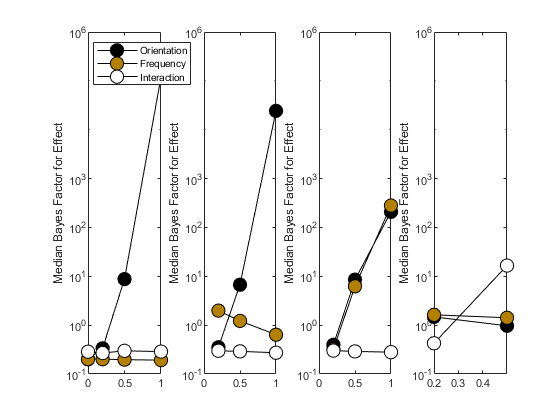
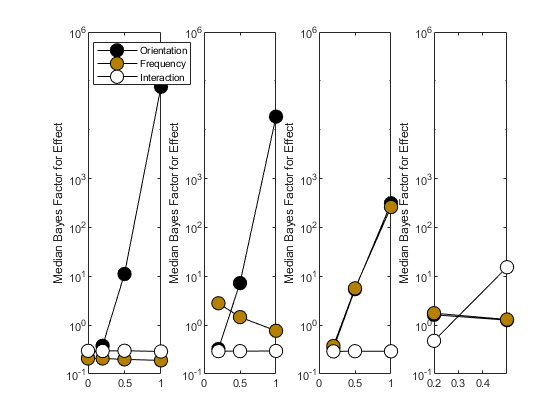
Updated documentation/getting started

diff --git a/docs/index.html b/docs/index.html
@@ -6,7 +6,7 @@
    <!--
 This HTML was auto-generated from MATLAB code.
 To make changes, update the MATLAB code and republish this document.
-      --><title>Getting Started with the bayesFactor Toolbox</title><meta name="generator" content="MATLAB 9.5"><link rel="schema.DC" href="http://purl.org/dc/elements/1.1/"><meta name="DC.date" content="2019-01-27"><meta name="DC.source" content="index.m"><style type="text/css">
+      --><title>Getting Started with the bayesFactor Toolbox</title><meta name="generator" content="MATLAB 9.5"><link rel="schema.DC" href="http://purl.org/dc/elements/1.1/"><meta name="DC.date" content="2019-01-28"><meta name="DC.source" content="index.m"><style type="text/css">
 html,body,div,span,applet,object,iframe,h1,h2,h3,h4,h5,h6,p,blockquote,pre,a,abbr,acronym,address,big,cite,code,del,dfn,em,font,img,ins,kbd,q,s,samp,small,strike,strong,sub,sup,tt,var,b,u,i,center,dl,dt,dd,ol,ul,li,fieldset,form,label,legend,table,caption,tbody,tfoot,thead,tr,th,td{margin:0;padding:0;border:0;outline:0;font-size:100%;vertical-align:baseline;background:transparent}body{line-height:1}ol,ul{list-style:none}blockquote,q{quotes:none}blockquote:before,blockquote:after,q:before,q:after{content:'';content:none}:focus{outine:0}ins{text-decoration:none}del{text-decoration:line-through}table{border-collapse:collapse;border-spacing:0}
 
 html { min-height:100%; margin-bottom:1px; }
@@ -116,33 +116,48 @@ ans =
 </pre><pre class="codeoutput">
 bfFull =
 
-   12.1961
+   12.3701
 
 </pre><p>To specifically look at the evidence for a main effect of orientation, we need to compare the Bayes Factor of the full model to a restricted model in which everything except the main effect of orientation is kept.</p><pre class="codeinput">bfRestricted  =   bf.anova(data,<span class="string">'rt~freq +ori:freq'</span>);  <span class="comment">% Keep main of freq and ori:freq interaction.</span>
 </pre><p>The evidence for the main effect is the ratio of the Bayes Factors.</p><pre class="codeinput">bfMain = bfFull/bfRestricted
 </pre><pre class="codeoutput">
 bfMain =
 
-  177.1230
+  179.6498
 
 </pre><p>The evidence is overwhelmingly in favor of a main effect of orientation.</p><h2 id="19">Figures from Rouder et al. 2012</h2><p>Much of the mathematical basis for this package is developed in the Rouder et al. paper. To test the package, I recreated some of the figures in their publication.</p><p>Figure 2 in Rouder et al compares critical T-values for a traditional t-test with a Bayes Factor analysis.</p><pre class="codeinput">rouderFigure2;
-</pre><img vspace="5" hspace="5" src="index_01.png" alt=""> <p>Figure 4 shows Bayes Factor analysis for simulated data with different effect sizes.</p><pre class="codeinput">rouderFigure4(100); <span class="comment">% Use 100 bootstrap sets .</span>
+</pre><img vspace="5" hspace="5" src="index_01.png" alt=""> <p>Figure 4 shows Bayes Factor analysis for simulated data with different effect sizes.</p><pre class="codeinput">rouderFigure4(1000); <span class="comment">% Use 1000 bootstrap sets .</span>
 </pre><img vspace="5" hspace="5" src="index_02.png" alt=""> <p>Figure 5 illustrates the influence of fixed and random effects</p><pre class="codeinput">rouderFigure5;
 </pre><img vspace="5" hspace="5" src="index_03.png" alt=""> <h2 id="22">Bayes Factor Design Analysis - Figures from Schoenbrodt &amp; Wagenmakers</h2><p>This paper provides a tutorial treatment of Bayes Factor Design Analysis.  Please see <tt>schoenbrodtFigures.m</tt> for details.</p><pre class="codeinput"><span class="comment">% Figure 3 in S&amp;W analyzes a Fixed-N design for a T-test.</span>
 schoenbrodtFigures(3,10000); <span class="comment">% 10000 Monte Carlo sims</span>
-</pre><pre class="codeoutput error">Error using bf.designAnalysis
-Error: File: C:\Users\bart.VISION\OneDrive - Rutgers University\Documents\common\github\bayesFactor\+bf\designAnalysis.m Line: 175 Column: 13
-The variable h1BfAll in a parfor cannot be classified.
-See Parallel for Loops in MATLAB, "Overview".
-
-Error in schoenbrodtFigures (line 30)
-        results = bf.designAnalysis('N',N,'test','ttest2','sequential',false,'tail','left','effectSize',0.5,'scale',sqrt(2)/2,'nrMC',nrMC);  
-
-Error in index (line 148)
-schoenbrodtFigures(3,10000); % 10000 Monte Carlo sims
-</pre><p>Figure 4 in S&amp;@ analyzes a Bayes sequential sampling design.</p><pre class="codeinput">schoenbrodtFigures(4,10000); <span class="comment">% 10000 Monte Carlo sims</span>
-</pre><p>Figure 5 refines the Sequential design analysis</p><pre class="codeinput">schoenbrodtFigures(5,10000); <span class="comment">% 10000 Monte Carlo sims</span>
-</pre><p class="footer"><br><a href="https://www.mathworks.com/products/matlab/">Published with MATLAB&reg; R2018b</a><br></p></div><!--
+</pre><pre class="codeoutput">***************
+N = 20
+False Positives (%): 0
+False Negatives (%): 0
+True Positives (%) 0
+True Negatives (%) 0
+***************
+N = 100
+False Positives (%): 0
+False Negatives (%): 0
+True Positives (%) 100
+True Negatives (%) 0
+**************
+Necessary sample size for 95% success under H1 is 143
+False negative rate under that scenario: 0
+False positive rate under H0: 0.47
+True negative rate under H0: 61.13
+</pre><img vspace="5" hspace="5" src="index_04.png" alt=""> <p>Figure 4 in S&amp;@ analyzes a Bayes sequential sampling design.</p><pre class="codeinput">schoenbrodtFigures(4,10000); <span class="comment">% 10000 Monte Carlo sims</span>
+</pre><pre class="codeoutput">False Positive Rate: 85.63%
+False Negative Rate: 3.49%
+Median Sample Size (H1): 40
+Median Sample Size (H0): 41
+</pre><img vspace="5" hspace="5" src="index_05.png" alt=""> <p>Figure 5 refines the Sequential design analysis</p><pre class="codeinput">schoenbrodtFigures(5,10000); <span class="comment">% 10000 Monte Carlo sims</span>
+</pre><pre class="codeoutput">False Positive Rate: 71.48%
+False Negative Rate: 1.32%
+Median Sample Size (H1): 75
+Median Sample Size (H0): 55
+</pre><img vspace="5" hspace="5" src="index_06.png" alt=""> <p class="footer"><br><a href="https://www.mathworks.com/products/matlab/">Published with MATLAB&reg; R2018b</a><br></p></div><!--
 ##### SOURCE BEGIN #####
 %% Getting Started with the bayesFactor Toolbox
 %% Description
@@ -279,7 +294,7 @@ rouderFigure2;
 % Figure 4 shows Bayes Factor analysis for simulated data with different 
 % effect sizes.
 % 
-rouderFigure4(100); % Use 100 bootstrap sets . 
+rouderFigure4(1000); % Use 1000 bootstrap sets . 
 
 %%
 % Figure 5 illustrates the influence of fixed and random effects

diff --git a/index.m b/index.m
@@ -133,7 +133,7 @@ rouderFigure2;
 % Figure 4 shows Bayes Factor analysis for simulated data with different 
 % effect sizes.
 % 
-rouderFigure4(100); % Use 100 bootstrap sets . 
+rouderFigure4(1000); % Use 1000 bootstrap sets . 
 
 %%
 % Figure 5 illustrates the influence of fixed and random effects
